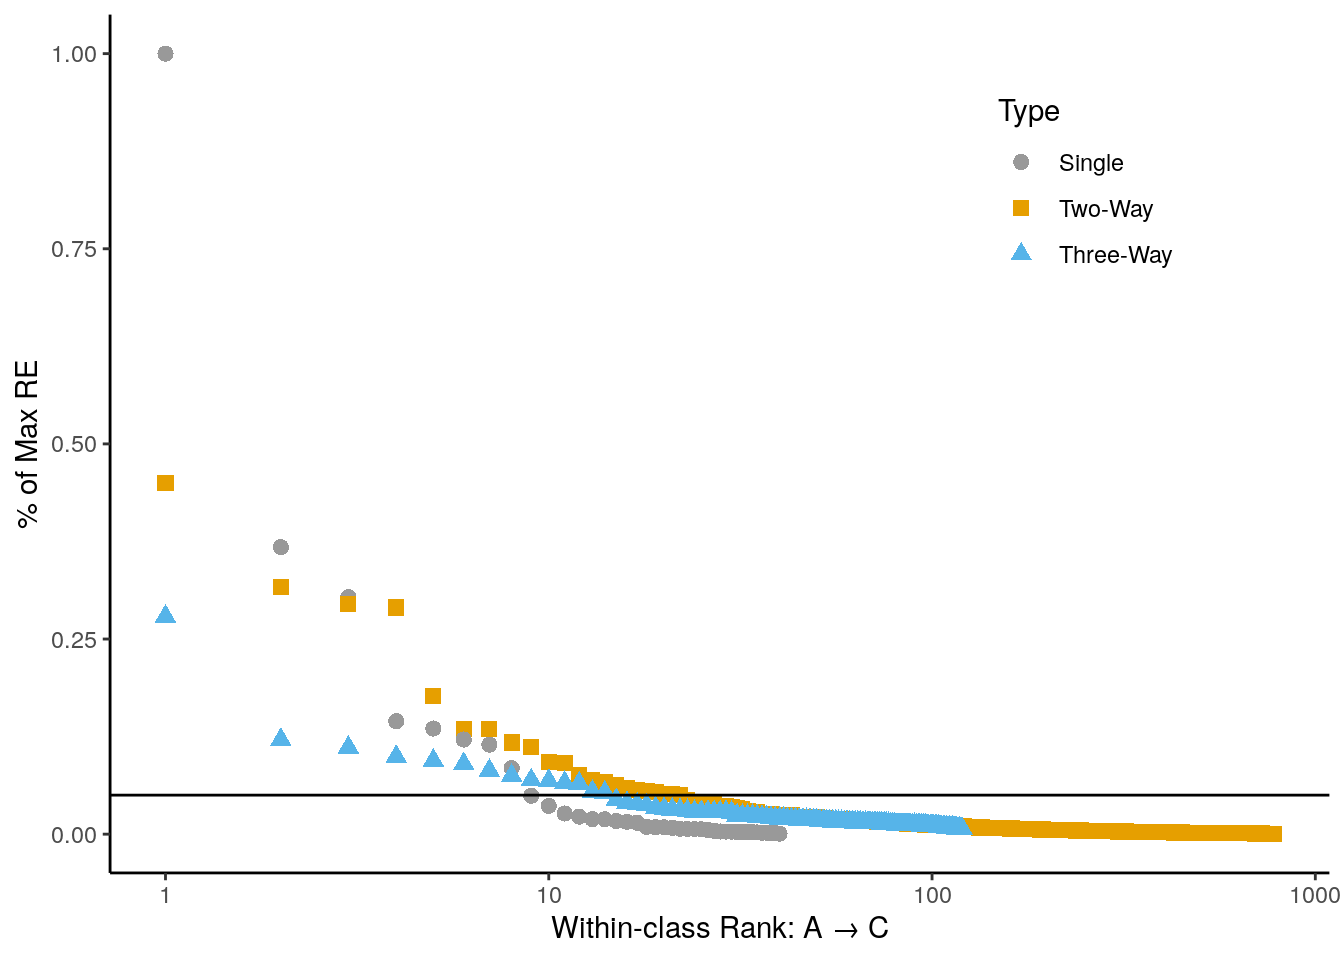
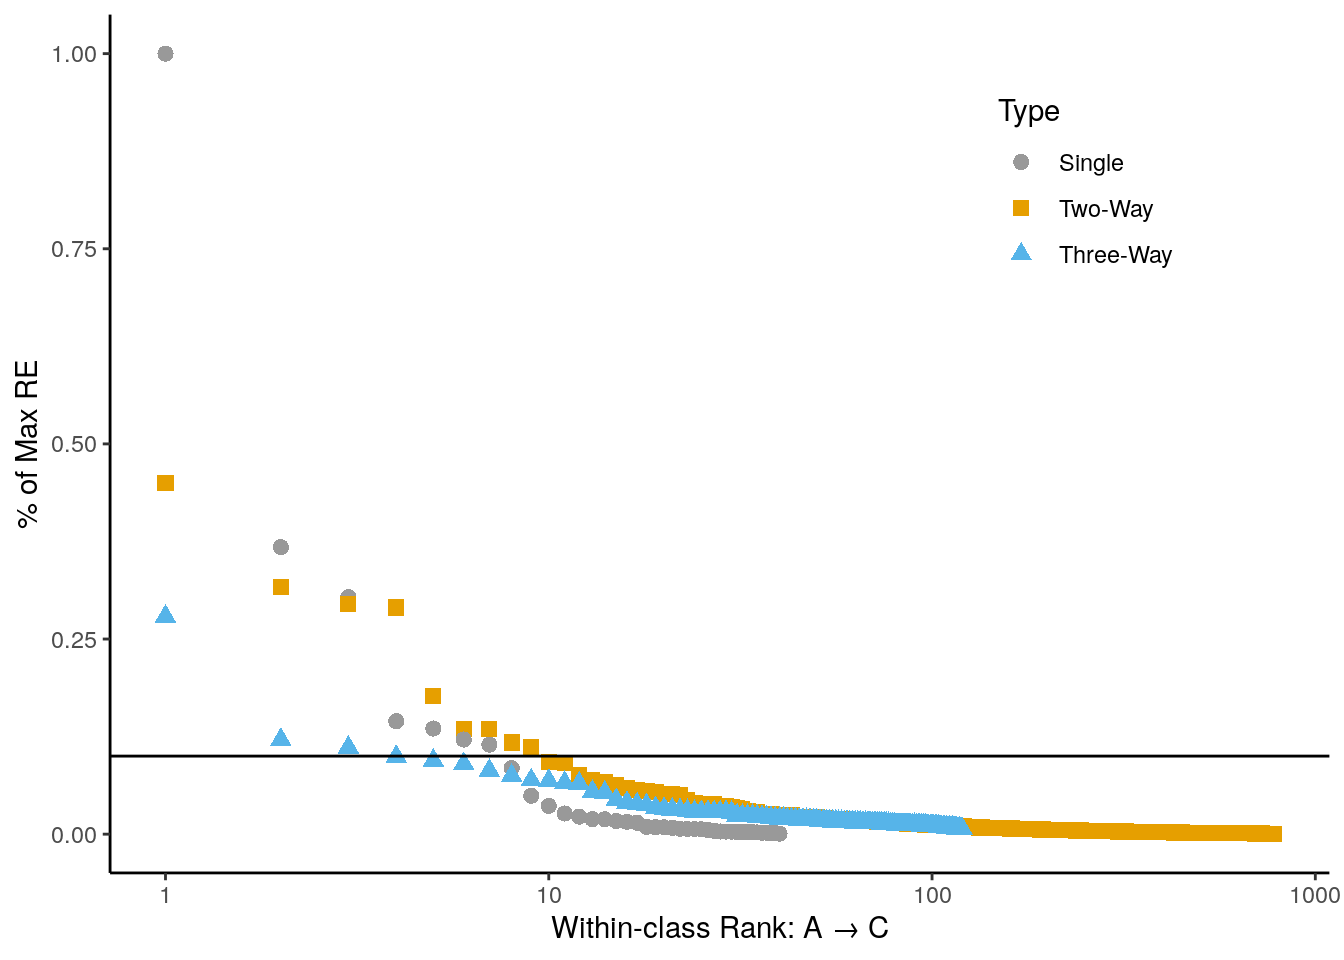
Build site.

Changed region(s): [[0.0938, 0.7812, 0.9688, 0.8438]]

diff --git a/docs/NYGC_rank_re_vals.html b/docs/NYGC_rank_re_vals.html
@@ -522,15 +522,15 @@ project makes it easier to run your code on other machines.</p>
 <div class="panel panel-default">
 <div class="panel-heading">
 <p class="panel-title">
-<a data-toggle="collapse" data-parent="#workflowr-checks" href="#strongRepositoryversionstrongahrefhttpsgithubcomtheandybLSCItree329743fe16f23b98cafafe0c35f4ff97ade2c60atargetblank329743fa">
+<a data-toggle="collapse" data-parent="#workflowr-checks" href="#strongRepositoryversionstrongahrefhttpsgithubcomtheandybLSCItree2cce4f4f88389636ece9b0b00ae4c07696dd41a1targetblank2cce4f4a">
 <span class="glyphicon glyphicon-ok text-success"
 aria-hidden="true"></span> <strong>Repository version:</strong>
-<a href="https://github.com/theandyb/LSCI/tree/329743fe16f23b98cafafe0c35f4ff97ade2c60a" target="_blank">329743f</a>
+<a href="https://github.com/theandyb/LSCI/tree/2cce4f4f88389636ece9b0b00ae4c07696dd41a1" target="_blank">2cce4f4</a>
 </a>
 </p>
 </div>
 <div
[2 lines of base64/hex data omitted]
 class="panel-collapse collapse">
 <div class="panel-body">
 <p>
@@ -540,7 +540,7 @@ reproducibility.
 </p>
 <p>
 The results in this page were generated with repository version
-<a href="https://github.com/theandyb/LSCI/tree/329743fe16f23b98cafafe0c35f4ff97ade2c60a" target="_blank">329743f</a>.
+<a href="https://github.com/theandyb/LSCI/tree/2cce4f4f88389636ece9b0b00ae4c07696dd41a1" target="_blank">2cce4f4</a>.
 See the <em>Past versions</em> tab to see a history of the changes made
 to the R Markdown and HTML files.
 </p>
@@ -609,6 +609,40 @@ Message
 </tr>
 </thead>
 <tbody>
+<tr>
+<td>
+Rmd
+</td>
+<td>
+<a href="https://github.com/theandyb/LSCI/blob/2cce4f4f88389636ece9b0b00ae4c07696dd41a1/analysis/NYGC_rank_re_vals.Rmd" target="_blank">2cce4f4</a>
+</td>
+<td>
+Andy Beck
+</td>
+<td>
+2023-06-29
+</td>
+<td>
+wflow_publish("analysis/NYGC_rank_re_vals.Rmd")
+</td>
+</tr>
+<tr>
+<td>
+html
+</td>
+<td>
+<a href="https://rawcdn.githack.com/theandyb/LSCI/02575acf77544a788fb0e4a7b504f9edde629136/docs/NYGC_rank_re_vals.html" target="_blank">02575ac</a>
+</td>
+<td>
+Andy Beck
+</td>
+<td>
+2023-06-29
+</td>
+<td>
+Build site.
+</td>
+</tr>
 <tr>
 <td>
 Rmd
@@ -858,7 +892,7 @@ df %&gt;% reactable()</code></pre>
   scale_colour_manual(values=cbPalette, name = &quot;Type&quot;, breaks=c(&quot;Single&quot;,&quot;Two-Way&quot;,&quot;Three-Way&quot;)) +
   scale_shape_discrete(name = &quot;Type&quot;, breaks=c(&quot;Single&quot;,&quot;Two-Way&quot;,&quot;Three-Way&quot;)) +
   scale_x_log10() +
-  geom_abline(slope = 0, intercept = 0.05) +
+  geom_abline(slope = 0, intercept = 0.1) +
   theme(legend.position=c(.8, .8)) +
   ylab(&quot;% of Max RE&quot;) +
   xlab(paste0(&quot;Within-class Rank: &quot;, subtype_print_names(subtype)))</code></pre>
@@ -885,6 +919,17 @@ Date
 </tr>
 </thead>
 <tbody>
+<tr>
+<td>
+<a href="https://github.com/theandyb/LSCI/blob/02575acf77544a788fb0e4a7b504f9edde629136/docs/figure/NYGC_rank_re_vals.Rmd/unnamed-chunk-4-1.png" target="_blank">02575ac</a>
+</td>
+<td>
+Andy Beck
+</td>
+<td>
+2023-06-29
+</td>
+</tr>
 <tr>
 <td>
 <a href="https://github.com/theandyb/LSCI/blob/8caa78f272687fc093af9da59361049d88ae52b6/docs/figure/NYGC_rank_re_vals.Rmd/unnamed-chunk-4-1.png" target="_blank">8caa78f</a>
@@ -925,7 +970,7 @@ df %&gt;% reactable()</code></pre>
   scale_colour_manual(values=cbPalette, name = &quot;Type&quot;, breaks=c(&quot;Single&quot;,&quot;Two-Way&quot;,&quot;Three-Way&quot;)) +
   scale_shape_discrete(name = &quot;Type&quot;, breaks=c(&quot;Single&quot;,&quot;Two-Way&quot;,&quot;Three-Way&quot;)) +
   scale_x_log10() +
-  geom_abline(slope = 0, intercept = 0.05) +
+  geom_abline(slope = 0, intercept = 0.1) +
   theme(legend.position=c(.8, .8)) +
   ylab(&quot;% of Max RE&quot;) +
   xlab(paste0(&quot;Within-class Rank: &quot;, subtype_print_names(subtype)))</code></pre>
@@ -952,6 +997,17 @@ Date
 </tr>
 </thead>
 <tbody>
+<tr>
+<td>
+<a href="https://github.com/theandyb/LSCI/blob/02575acf77544a788fb0e4a7b504f9edde629136/docs/figure/NYGC_rank_re_vals.Rmd/unnamed-chunk-6-1.png" target="_blank">02575ac</a>
+</td>
+<td>
+Andy Beck
+</td>
+<td>
+2023-06-29
+</td>
+</tr>
 <tr>
 <td>
 <a href="https://github.com/theandyb/LSCI/blob/8caa78f272687fc093af9da59361049d88ae52b6/docs/figure/NYGC_rank_re_vals.Rmd/unnamed-chunk-6-1.png" target="_blank">8caa78f</a>
@@ -992,7 +1048,7 @@ df %&gt;% reactable()</code></pre>
   scale_colour_manual(values=cbPalette, name = &quot;Type&quot;, breaks=c(&quot;Single&quot;,&quot;Two-Way&quot;,&quot;Three-Way&quot;)) +
   scale_shape_discrete(name = &quot;Type&quot;, breaks=c(&quot;Single&quot;,&quot;Two-Way&quot;,&quot;Three-Way&quot;)) +
   scale_x_log10() +
-  geom_abline(slope = 0, intercept = 0.05) +
+  geom_abline(slope = 0, intercept = 0.1) +
   theme(legend.position=c(.8, .8)) +
   ylab(&quot;% of Max RE&quot;) +
   xlab(paste0(&quot;Within-class Rank: &quot;, subtype_print_names(subtype)))</code></pre>
@@ -1019,6 +1075,17 @@ Date
 </tr>
 </thead>
 <tbody>
+<tr>
+<td>
+<a href="https://github.com/theandyb/LSCI/blob/02575acf77544a788fb0e4a7b504f9edde629136/docs/figure/NYGC_rank_re_vals.Rmd/unnamed-chunk-8-1.png" target="_blank">02575ac</a>
+</td>
+<td>
+Andy Beck
+</td>
+<td>
+2023-06-29
+</td>
+</tr>
 <tr>
 <td>
 <a href="https://github.com/theandyb/LSCI/blob/8caa78f272687fc093af9da59361049d88ae52b6/docs/figure/NYGC_rank_re_vals.Rmd/unnamed-chunk-8-1.png" target="_blank">8caa78f</a>
@@ -1059,7 +1126,7 @@ df %&gt;% reactable()</code></pre>
   scale_colour_manual(values=cbPalette, name = &quot;Type&quot;, breaks=c(&quot;Single&quot;,&quot;Two-Way&quot;,&quot;Three-Way&quot;)) +
   scale_shape_discrete(name = &quot;Type&quot;, breaks=c(&quot;Single&quot;,&quot;Two-Way&quot;,&quot;Three-Way&quot;)) +
   scale_x_log10() +
-  geom_abline(slope = 0, intercept = 0.05) +
+  geom_abline(slope = 0, intercept = 0.1) +
   theme(legend.position=c(.8, .8)) +
   ylab(&quot;% of Max RE&quot;) +
   xlab(paste0(&quot;Within-class Rank: &quot;, subtype_print_names(subtype)))</code></pre>
@@ -1086,6 +1153,17 @@ Date
 </tr>
 </thead>
 <tbody>
+<tr>
+<td>
+<a href="https://github.com/theandyb/LSCI/blob/02575acf77544a788fb0e4a7b504f9edde629136/docs/figure/NYGC_rank_re_vals.Rmd/unnamed-chunk-10-1.png" target="_blank">02575ac</a>
+</td>
+<td>
+Andy Beck
+</td>
+<td>
+2023-06-29
+</td>
+</tr>
 <tr>
 <td>
 <a href="https://github.com/theandyb/LSCI/blob/8caa78f272687fc093af9da59361049d88ae52b6/docs/figure/NYGC_rank_re_vals.Rmd/unnamed-chunk-10-1.png" target="_blank">8caa78f</a>
@@ -1126,7 +1204,7 @@ df %&gt;% reactable()</code></pre>
   scale_colour_manual(values=cbPalette, name = &quot;Type&quot;, breaks=c(&quot;Single&quot;,&quot;Two-Way&quot;,&quot;Three-Way&quot;)) +
   scale_shape_discrete(name = &quot;Type&quot;, breaks=c(&quot;Single&quot;,&quot;Two-Way&quot;,&quot;Three-Way&quot;)) +
   scale_x_log10() +
-  geom_abline(slope = 0, intercept = 0.05) +
+  geom_abline(slope = 0, intercept = 0.1) +
   theme(legend.position=c(.8, .8)) +
   ylab(&quot;% of Max RE&quot;) +
   xlab(paste0(&quot;Within-class Rank: &quot;, subtype_print_names(subtype)))</code></pre>
@@ -1153,6 +1231,17 @@ Date
 </tr>
 </thead>
 <tbody>
+<tr>
+<td>
+<a href="https://github.com/theandyb/LSCI/blob/02575acf77544a788fb0e4a7b504f9edde629136/docs/figure/NYGC_rank_re_vals.Rmd/unnamed-chunk-12-1.png" target="_blank">02575ac</a>
+</td>
+<td>
+Andy Beck
+</td>
+<td>
+2023-06-29
+</td>
+</tr>
 <tr>
 <td>
 <a href="https://github.com/theandyb/LSCI/blob/8caa78f272687fc093af9da59361049d88ae52b6/docs/figure/NYGC_rank_re_vals.Rmd/unnamed-chunk-12-1.png" target="_blank">8caa78f</a>
@@ -1193,7 +1282,7 @@ df %&gt;% reactable()</code></pre>
   scale_colour_manual(values=cbPalette, name = &quot;Type&quot;, breaks=c(&quot;Single&quot;,&quot;Two-Way&quot;,&quot;Three-Way&quot;)) +
   scale_shape_discrete(name = &quot;Type&quot;, breaks=c(&quot;Single&quot;,&quot;Two-Way&quot;,&quot;Three-Way&quot;)) +
   scale_x_log10() +
-  geom_abline(slope = 0, intercept = 0.05) +
+  geom_abline(slope = 0, intercept = 0.1) +
   theme(legend.position=c(.8, .8)) +
   ylab(&quot;% of Max RE&quot;) +
   xlab(paste0(&quot;Within-class Rank: &quot;, subtype_print_names(subtype)))</code></pre>
@@ -1220,6 +1309,17 @@ Date
 </tr>
 </thead>
 <tbody>
+<tr>
+<td>
+<a href="https://github.com/theandyb/LSCI/blob/02575acf77544a788fb0e4a7b504f9edde629136/docs/figure/NYGC_rank_re_vals.Rmd/unnamed-chunk-14-1.png" target="_blank">02575ac</a>
+</td>
+<td>
+Andy Beck
+</td>
+<td>
+2023-06-29
+</td>
+</tr>
 <tr>
 <td>
 <a href="https://github.com/theandyb/LSCI/blob/8caa78f272687fc093af9da59361049d88ae52b6/docs/figure/NYGC_rank_re_vals.Rmd/unnamed-chunk-14-1.png" target="_blank">8caa78f</a>
@@ -1260,7 +1360,7 @@ df %&gt;% reactable()</code></pre>
   scale_colour_manual(values=cbPalette, name = &quot;Type&quot;, breaks=c(&quot;Single&quot;,&quot;Two-Way&quot;,&quot;Three-Way&quot;)) +
   scale_shape_discrete(name = &quot;Type&quot;, breaks=c(&quot;Single&quot;,&quot;Two-Way&quot;,&quot;Three-Way&quot;)) +
   scale_x_log10() +
-  geom_abline(slope = 0, intercept = 0.05) +
+  geom_abline(slope = 0, intercept = 0.1) +
   theme(legend.position=c(.8, .8)) +
   ylab(&quot;% of Max RE&quot;) +
   xlab(paste0(&quot;Within-class Rank: &quot;, subtype_print_names(subtype)))</code></pre>
@@ -1287,6 +1387,17 @@ Date
 </tr>
 </thead>
 <tbody>
+<tr>
+<td>
+<a href="https://github.com/theandyb/LSCI/blob/02575acf77544a788fb0e4a7b504f9edde629136/docs/figure/NYGC_rank_re_vals.Rmd/unnamed-chunk-16-1.png" target="_blank">02575ac</a>
+</td>
+<td>
+Andy Beck
+</td>
+<td>
+2023-06-29
+</td>
+</tr>
 <tr>
 <td>
 <a href="https://github.com/theandyb/LSCI/blob/8caa78f272687fc093af9da59361049d88ae52b6/docs/figure/NYGC_rank_re_vals.Rmd/unnamed-chunk-16-1.png" target="_blank">8caa78f</a>
@@ -1327,7 +1438,7 @@ df %&gt;% reactable()</code></pre>
   scale_colour_manual(values=cbPalette, name = &quot;Type&quot;, breaks=c(&quot;Single&quot;,&quot;Two-Way&quot;,&quot;Three-Way&quot;)) +
   scale_shape_discrete(name = &quot;Type&quot;, breaks=c(&quot;Single&quot;,&quot;Two-Way&quot;,&quot;Three-Way&quot;)) +
   scale_x_log10() +
-  geom_abline(slope = 0, intercept = 0.05) +
+  geom_abline(slope = 0, intercept = 0.1) +
   theme(legend.position=c(.8, .8)) +
   ylab(&quot;% of Max RE&quot;) +
   xlab(paste0(&quot;Within-class Rank: &quot;, subtype_print_names(subtype)))</code></pre>
@@ -1354,6 +1465,17 @@ Date
 </tr>
 </thead>
 <tbody>
+<tr>
+<td>
+<a href="https://github.com/theandyb/LSCI/blob/02575acf77544a788fb0e4a7b504f9edde629136/docs/figure/NYGC_rank_re_vals.Rmd/unnamed-chunk-18-1.png" target="_blank">02575ac</a>
+</td>
+<td>
+Andy Beck
+</td>
+<td>
+2023-06-29
+</td>
+</tr>
 <tr>
 <td>
 <a href="https://github.com/theandyb/LSCI/blob/8caa78f272687fc093af9da59361049d88ae52b6/docs/figure/NYGC_rank_re_vals.Rmd/unnamed-chunk-18-1.png" target="_blank">8caa78f</a>
@@ -1394,7 +1516,7 @@ df %&gt;% reactable()</code></pre>
   scale_colour_manual(values=cbPalette, name = &quot;Type&quot;, breaks=c(&quot;Single&quot;,&quot;Two-Way&quot;,&quot;Three-Way&quot;)) +
   scale_shape_discrete(name = &quot;Type&quot;, breaks=c(&quot;Single&quot;,&quot;Two-Way&quot;,&quot;Three-Way&quot;)) +
   scale_x_log10() +
-  geom_abline(slope = 0, intercept = 0.05) +
+  geom_abline(slope = 0, intercept = 0.1) +
   theme(legend.position=c(.8, .8)) +
   ylab(&quot;% of Max RE&quot;) +
   xlab(paste0(&quot;Within-class Rank: &quot;, subtype_print_names(subtype)))</code></pre>
@@ -1421,6 +1543,17 @@ Date
 </tr>
 </thead>
 <tbody>
+<tr>
+<td>
+<a href="https://github.com/theandyb/LSCI/blob/02575acf77544a788fb0e4a7b504f9edde629136/docs/figure/NYGC_rank_re_vals.Rmd/unnamed-chunk-20-1.png" target="_blank">02575ac</a>
+</td>
+<td>
+Andy Beck
+</td>
+<td>
+2023-06-29
+</td>
+</tr>
 <tr>
 <td>
 <a href="https://github.com/theandyb/LSCI/blob/8caa78f272687fc093af9da59361049d88ae52b6/docs/figure/NYGC_rank_re_vals.Rmd/unnamed-chunk-20-1.png" target="_blank">8caa78f</a>
